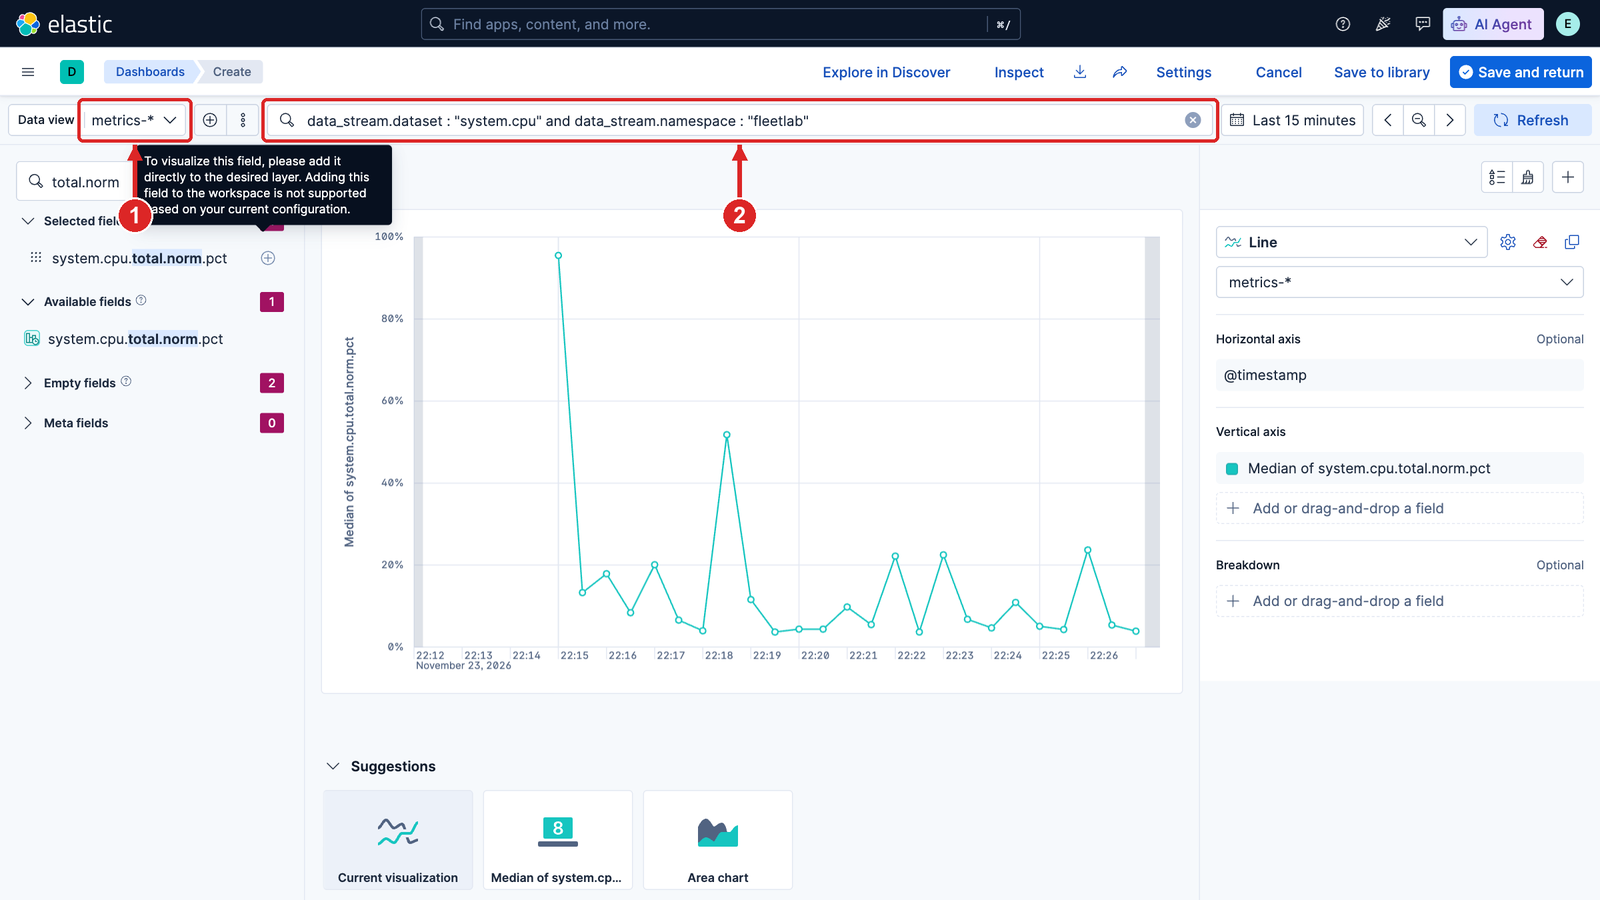
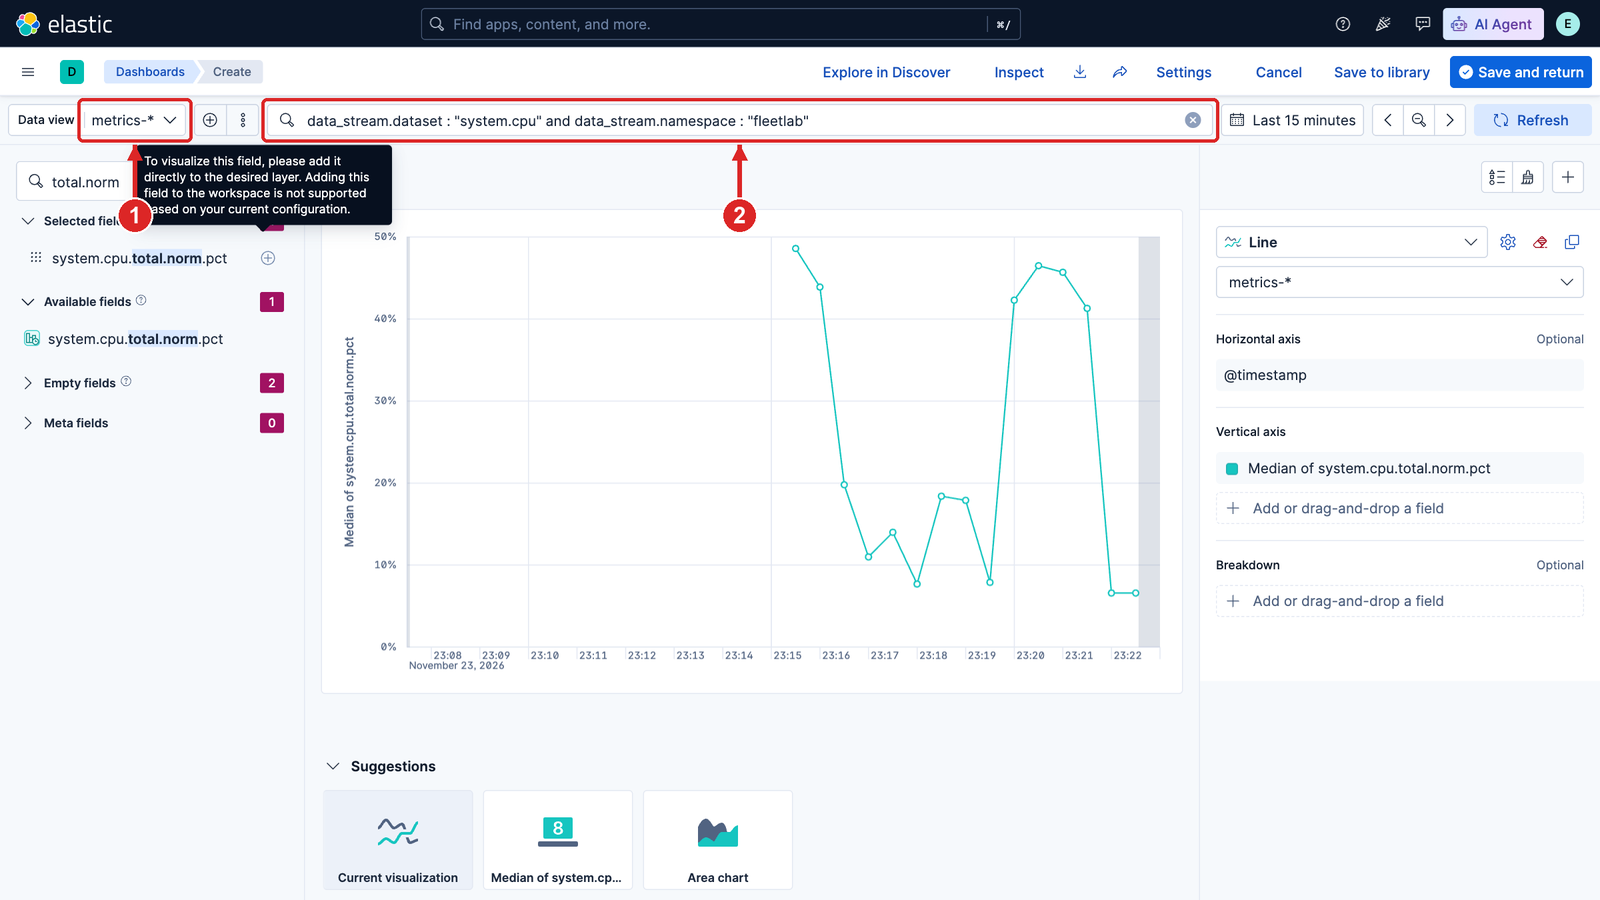
docs+test(LAB-11): question-led steps, short concept bullets
- "Bu lab ne öğretiyor?" as a short problem line plus four bold bullets; Kavramlar table -> bullets
  (Elastic Agent, agent policy/revision, integration, Fleet, Fleet Server, namespace)
- Ön Koşullar: "önce kurulu olmalı" / "önceki labı atladıysanız"
- Each of the 7 steps opens with "Soru: ...?"; before/after labels on steps 5 and 6; explanations as bold bullets
- Commands unchanged (komut denetimi AYNI, 19 blocks)

Test (34.141.96.128, 9.5.5, base c67976b), README order, runner and UI interleaved:
teardown -> runner 1-17 PASS=9 -> UI step 2 + step 5 (5 shots) -> runner 18-19 PASS=1 (revision 2 -> 3)
-> UI step 6 Nginx (3 shots) -> runner 20-27 PASS=4 (revision 4, nginx-lab namespace from policy)
-> UI prebuilt dashboard box ([Logs Nginx] Overview: 8 panels, 0 errors) -> runner 28-31 PASS=2 (stress-ng)
-> UI step 7 Lens dashboard (4 shots, load window visible). Total PASS=16 FAIL=0; link_kontrol 0.
Lab left running on the server.

diff --git a/labs/LAB-11-fleet-elastic-agent/README.md b/labs/LAB-11-fleet-elastic-agent/README.md
@@ -8,14 +8,13 @@
 
 ## Bu lab ne öğretiyor?
 
-Bir sunucuyu Beats ile izlemek her Beat için ayrı bir YAML dosyası ve servis demektir; ayarı değiştirmek
-için sunucuya girip dosyayı düzenlemek gerekir. 50 sunucuda hangi sunucuda hangi ayarın çalıştığını kimse
-bilemez. Fleet ayarı sunucudan alıp Kibana'ya taşır: sunucuda tek bir program (**Elastic Agent**) çalışır,
-ne toplayacağını Kibana'daki **agent policy** söyler.
+Beats ile her Beat ayrı YAML ve servis demektir; 50 sunucuda hangi ayarın çalıştığını kimse bilemez. Fleet ayarı
+Kibana'ya taşır: sunucuda tek program (**Elastic Agent**) çalışır, ne toplayacağını Kibana'daki **agent policy** söyler.
 
-Bu labda Fleet Server ve bir ajanı container olarak kuracak, ajanın sunucuyu izlediğini gösterecek, politikayı
-Kibana'dan değiştirecek, **Add integrations** ile Nginx loglarını ekleyecek ve CPU'ya kısa bir yük verip bir
-Lens panosunda göreceğiz.
+- **Fleet Server ve ajan:** container olarak kurmak, ajanın sunucuyu izlediğini görmek
+- **Politikayı Kibana'dan değiştirmek:** sunucuya girmeden ayarın ajana gitmesi (revision)
+- **Add integrations:** Nginx loglarını eklemek, integration'ın hazır panosu
+- **CPU yükü:** kısa bir yükü Lens panosunda görmek
 
 ![Fleet Server, Elastic Agent ve politika akışı](../../assets/infographics/15-fleet-agent-policy-akisi.png)
 
@@ -23,9 +22,9 @@ Lens panosunda göreceğiz.
 
 ## Ön Koşullar
 
-- LAB-01 ana cluster'ı çalışıyor. LAB-01'i atladıysanız onun Adım 1-2'sini çalıştırın.
-- `127.0.0.1:8220` portu boş olmalı. İki ajan container'ı birlikte yaklaşık 1 GB RAM kullanır. Adım 7 `stress-ng`
-  paketini `sudo apt-get` ile kurar.
+- Önce kurulu olmalı: LAB-01 ana cluster'ı. `127.0.0.1:8220` portu boş olmalı; iki ajan container'ı birlikte
+  yaklaşık 1 GB RAM kullanır. Adım 7 `stress-ng` paketini `sudo apt-get` ile kurar.
+- Önceki labı atladıysanız: sorun değil; LAB-10'a bağlı değildir, veriyi ajan sunucudan toplar.
 
 ```bash
 cd ~/elastic/labs/LAB-11-fleet-elastic-agent
@@ -46,18 +45,14 @@ Kibana: http://<IP>:5601   https://<host>-kibana.devopsatolyesi.com
 
 ---
 
-## Kavramlar: Fleet'te kim ne yapar?
+## Kavramlar
 
-| Parça | Ne yapar | Bu labda |
-|---|---|---|
-| Kibana Fleet | Politikaları ve integration'ları tutar; her değişiklikte politikanın **revision**'ı artar | `fleet-linux-policy` |
-| Fleet Server | Ajanların düzenli sorduğu (check-in) sunucu; yeni politikayı ajana verir | `fleet-server-lab`, port 8220 |
-| Elastic Agent | Politikayı uygular, veriyi **doğrudan Elasticsearch'e** yazar | `agent-fleet-lab` (`linux-agent-01`) |
-| Integration | Bir kaynağın hazır toplama ayarı (System, Nginx…) | `system-lab` |
-| Namespace | Data stream adının son parçası; ortamı ya da ekibi ayırır | `fleetlab` |
-
-Fleet Server veri taşımaz: ayar Fleet Server'dan gelir, veri ajandan Elasticsearch'e gider. Data stream adları
-`<tür>-<veri seti>-<namespace>` biçimindedir: `logs-system.auth-fleetlab`.
+- **Elastic Agent:** her sunucuda çalışan tek program; politikayı uygular, veriyi **doğrudan Elasticsearch'e** yazar
+- **Agent policy:** ajanın ne toplayacağının listesi; her değişiklikte **revision**'ı bir artar
+- **Integration:** bir kaynağın hazır toplama ayarı (System, Nginx…); panolarını ve ingest pipeline'larını da getirir
+- **Fleet (Kibana):** politikaları ve integration'ları yönetilen arayüz
+- **Fleet Server:** ajanların düzenli sorduğu (check-in) sunucu; yeni politikayı ajana verir, veri taşımaz
+- **Namespace:** data stream adının son parçası, ortamı ya da ekibi ayırır: `<tür>-<veri seti>-<namespace>` → `logs-system.auth-fleetlab`
 
 ---
 
@@ -93,8 +88,9 @@ toplayıcılar `/proc` yerine sunucunun bağlanan `/hostfs/proc`'unu okur.
 
 ### 1. Fleet'i hazırlayın
 
-Betik Fleet Server için bir service token üretir, Fleet'in output'unu ana cluster'a yönlendirir, iki politika
-açar ve ajanın kayıt token'ını alır. Token'lar `.env.fleet` dosyasına yazılır, ekrana basılmaz:
+**Soru: Ajan çalışmadan önce Fleet'te ne hazır olmalı?** Betik Fleet Server için bir service token üretir,
+Fleet'in output'unu ana cluster'a yönlendirir, iki politika açar ve ajanın kayıt token'ını alır. Token'lar
+`.env.fleet` dosyasına yazılır, ekrana basılmaz:
 
 ```bash
 python3 scripts/setup_fleet.py
@@ -115,16 +111,18 @@ enrollment token       : alindi
 
 </details>
 
-İlk çalıştırma paketleri indirdiği için yaklaşık 40 saniye sürer.
+- **Yaklaşık 40 saniye:** ilk çalıştırma paketleri indirir.
 
 ### 2. Fleet Server ve ajanı başlatın
+
+**Soru: Ajan Fleet'e nasıl kaydolur?** İki container'ı başlatın; ajan token'la Fleet Server'a kaydolur:
 
 ```bash
 docker compose --env-file .env.fleet up -d
 ```
 
-Fleet Server açılır, ajan ona kaydolur ve ilk politikayı uygular; ikisinin de `online` olması yaklaşık 1
-dakika sürer:
+**Bekleyin:** Fleet Server açılır, ajan ona kaydolur ve ilk politikayı uygular; ikisinin de `online` olması
+yaklaşık 1 dakika sürer:
 
 ```bash
 timeout 300 bash -c 'until [ "$(curl -s -u elastic:"DevOps2026!" "http://127.0.0.1:5601/api/fleet/agents?perPage=50" | jq "[.items[] | select((.policy_id | test(\"^fleet-\")) and .status == \"online\")] | length")" -ge 2 ]; do printf .; sleep 5; done'; echo
@@ -142,14 +140,14 @@ linux-agent-01  fleet-linux-policy  online
 
 Satırların sırası sizde farklı olabilir.
 
-Aynı listeyi **Management › Fleet › Agents**'ta görün: `linux-agent-01` satırında (1) durum `Healthy`,
-politika `Lab Linux sunucu`. **Last activity** birkaç saniye öncesini gösterir: ajan düzenli check-in yapıyor.
+**Arayüzde:** **Management › Fleet › Agents**: `linux-agent-01` satırında (1) durum `Healthy`, politika
+`Lab Linux sunucu`. **Last activity** birkaç saniye öncesini gösterir: ajan düzenli check-in yapıyor.
 
 ![Fleet › Agents: 1 linux-agent-01 Healthy](../../assets/screenshots/LAB-11/01-fleet-agents.png)
 
 ### 3. Politikada ne var?
 
-Ajanın ne topladığını politikadaki integration'lar belirler:
+**Soru: Ajan ne topluyor?** Politikadaki integration'lar belirler:
 
 ```bash
 curl -s -u elastic:'DevOps2026!' 'http://127.0.0.1:5601/api/fleet/package_policies?perPage=50' \
@@ -168,13 +166,13 @@ fleet_server-lab  fleet-server-policy  hostfs=-
    └─ status: (HEALTHY) Running
 ```
 
-`system-lab` sunucunun loglarını ve metriklerini toplar; `hostfs=/hostfs` metriklerin sunucudan okunmasını
-sağlar. `elastic-agent status` ajanın Fleet'e bağlı ve sağlıklı olduğunu kendisi söyler.
+- **`system-lab`:** sunucunun loglarını ve metriklerini toplar; `hostfs=/hostfs` metriklerin sunucudan okunmasını sağlar.
+- **`elastic-agent status`:** ajan Fleet'e bağlı ve sağlıklı olduğunu kendisi söyler.
 
 ### 4. Önce ve sonra: ajan sunucuyu mu görüyor, container'ı mı?
 
-Bağlama olmasa container'ın `/var/log`'unda yalnız image'ın kendi birkaç dosyası olurdu. Bağlamayla aynı dizin
-sunucunun dizinidir:
+**Soru: Container'daki ajan sunucuyu nasıl görür?** Bağlama (volume) olmasa container'ın `/var/log`'unda yalnız
+image'ın kendi birkaç dosyası olurdu. Bağlamayla aynı dizin sunucunun dizinidir:
 
 ```bash
 docker exec agent-fleet-lab ls /var/log | grep -E '^(syslog|auth\.log)$'
@@ -187,8 +185,8 @@ auth.log
 syslog
 ```
 
-Süreç metriklerinin gelmesini bekleyip iki log veri setinin document sayısına ve son 5 dakikada en çok görülen
-süreçlere bakın:
+**Veri geliyor mu?** Süreç metriklerinin gelmesini bekleyip iki log veri setinin document sayısına ve son 5
+dakikada en çok görülen süreçlere bakın:
 
 ```bash
 timeout 180 bash -c 'until [ "$(curl -s -u elastic:"DevOps2026!" http://127.0.0.1:9200/metrics-system.process-fleetlab/_count | jq .count 2>/dev/null)" -gt 0 ] 2>/dev/null; do printf .; sleep 5; done'; echo
@@ -212,13 +210,14 @@ system.auth    3521
 | `logs-system.auth-fleetlab` | 0 document | sunucunun SSH ve `sudo` kayıtları |
 | `metrics-system.process-*` | yalnız `elastic-agent` ve alt bileşenleri | sunucudaki bütün süreçler: `dockerd`, ana cluster'ın `java`'sı… |
 
-Ajan dosyaları baştan okur; sayılar ve süreç listesi sunucunun yaşına ve o anki yüküne göre sizde farklıdır. İnternete açık sunucularda `auth`
-kayıtlarının çoğu başarısız SSH denemeleridir. Süreç adları çekirdekte 15 karakterde kesilir.
+- **Sayılar sizde farklıdır:** ajan dosyaları baştan okur; sayılar ve süreç listesi sunucunun yaşına ve yüküne bağlıdır.
+- **`auth` kayıtları:** internete açık sunucularda çoğu başarısız SSH denemeleridir.
+- **Kısa süreç adları:** çekirdek süreç adlarını 15 karakterde keser.
 
 ### 5. Politikayı Kibana'dan canlı değiştirin
 
-Her politika değişikliği politikanın revision'ını bir artırır; ajan yeni revision'ı bir sonraki check-in'de
-alır. Önce iki değer:
+**Soru: Ayar sunucuya girmeden nasıl değişir?** Her politika değişikliği revision'ı bir artırır; ajan yeni
+revision'ı bir sonraki check-in'de alır. **Önce:** politikanın ve ajanın revision'ı:
 
 ```bash
 curl -s -u elastic:'DevOps2026!' 'http://127.0.0.1:5601/api/fleet/agent_policies/fleet-linux-policy' | jq '.item.revision'
@@ -232,7 +231,7 @@ Beklenen çıktı:
 2
 ```
 
-Şimdi Kibana'da süreç metriklerinin toplanma aralığını değiştirin:
+**Kibana'da** süreç metriklerinin toplanma aralığını değiştirin:
 
 1. **Management › Fleet › Agent policies**'te **Lab Linux sunucu** politikasını açın ve `system-lab`
    integration'ına (1) tıklayın.
@@ -253,7 +252,7 @@ Beklenen çıktı:
 
    ![Save and deploy changes onayı](../../assets/screenshots/LAB-11/05-save-and-deploy.png)
 
-Ajanın yeni revision'a geçmesini bekleyin:
+**Sonra:** ajanın yeni revision'a geçmesini bekleyin:
 
 ```bash
 curl -s -u elastic:'DevOps2026!' 'http://127.0.0.1:5601/api/fleet/agent_policies/fleet-linux-policy' | jq '.item.revision'
@@ -269,13 +268,13 @@ Beklenen çıktı:
 3
 ```
 
-Politika 2'den 3'e çıktı, ajan birkaç saniye içinde yetişti. Sunucuya girilmedi, container yeniden başlatılmadı.
+- **2 → 3:** ajan birkaç saniye içinde yetişti; sunucuya girilmedi, container yeniden başlatılmadı.
 
 ### 6. Kibana'dan integration ekleyin: Nginx
 
-System integration'ı betik ekledi. Şimdi aynı politikaya Kibana'nın **Add integrations** akışıyla bir tane daha
-ekleyeceğiz. Sunucudaki Nginx (80/443) her isteği `/var/log/nginx/access.log`'a yazar; ajan `/var/log`'u zaten
-okuyor, yeni bir bağlama gerekmez.
+**Soru: Yeni bir kaynağı toplamaya nasıl başlarız?** System integration'ını betik ekledi; aynı politikaya
+Kibana'nın **Add integrations** akışıyla Nginx'i ekliyoruz. Sunucudaki Nginx (80/443) her isteği
+`/var/log/nginx/access.log`'a yazar; ajan `/var/log`'u zaten okuyor, yeni bir bağlama gerekmez.
 
 1. Kibana ana sayfasında **Add integrations**'a basın, arama kutusuna `nginx` yazın (1) ve **Nginx (ECS)**
    kartını (2) açın; sonra **Add Nginx (ECS)** (3).
@@ -292,7 +291,7 @@ okuyor, yeni bir bağlama gerekmez.
 
    ![Existing hosts: 6 sekme, 7 Lab Linux sunucu, 8 Save and continue](../../assets/screenshots/LAB-11/08-nginx-politika.png)
 
-Politika revision'ı yine artar; ajan yetişince Nginx logları gelir:
+**Nginx logları geliyor mu?** Politika revision'ı yine artar; ajan yetişince loglar gelir:
 
 ```bash
 timeout 180 bash -c 'until [ "$(curl -s -u elastic:"DevOps2026!" http://127.0.0.1:9200/logs-nginx.access-fleetlab/_count | jq .count 2>/dev/null)" -gt 0 ] 2>/dev/null; do printf .; sleep 5; done'; echo
@@ -309,8 +308,10 @@ system-lab  system  namespace=fleetlab
 4
 ```
 
-Önce ve sonra: sunucunun ham satırı ve aynı türden bir isteğin ajanın yazdığı hâli. Integration'ın ingest
-pipeline'ı satırı ECS field'larına ayırır. `nginx-lab` namespace'i kendisi vermez, politikanınkini (`fleetlab`) alır:
+- **`namespace=politikadan`:** `nginx-lab` namespace'i kendisi vermez, politikanınkini (`fleetlab`) alır.
+
+**Önce ve sonra:** sunucunun ham satırı ve aynı türden bir isteğin ajanın yazdığı hâli. Integration'ın ingest
+pipeline'ı satırı ECS field'larına ayırır:
 
 ```bash
 sudo tail -1 /var/log/nginx/access.log | cut -c1-120
@@ -325,7 +326,7 @@ Beklenen çıktı:
 {"ip":"188.114.102.252","method":"GET","kod":200,"url":"/api/console/autocomplete_entities?field","tarayici":"Chrome"}
 ```
 
-İstekler, IP'ler ve URL sizde farklıdır. Ajan dosyayı baştan okur; sayı sunucunun Nginx trafiğine bağlıdır.
+- **Sizde farklıdır:** istekler, IP'ler ve URL sunucunun Nginx trafiğine bağlıdır.
 
 <details>
 <summary><strong>Tek node'da yellow kalmasın: replica 0</strong></summary>
@@ -399,9 +400,9 @@ galerisinin Kibana'daki karşılığı).
 
 ### 7. CPU yükü ve Lens panosu
 
-System integration'ı CPU'yu 10 saniyede bir `metrics-system.cpu-fleetlab`'e yazar. `stress-ng` ile kısa ve
-sınırlı bir yük verip panoda görelim: 4 çekirdekten 2'si, %80 yük, 90 saniye; süre dolunca kendiliğinden
-biter ve bellek kullanmaz.
+**Soru: Bir yük metriklere ve panoya nasıl yansır?** System integration'ı CPU'yu 10 saniyede bir
+`metrics-system.cpu-fleetlab`'e yazar. `stress-ng` ile kısa ve sınırlı bir yük vereceğiz: 4 çekirdekten 2'si, %80 yük,
+90 saniye; süre dolunca kendiliğinden biter ve bellek kullanmaz.
 
 ```bash
 sudo DEBIAN_FRONTEND=noninteractive apt-get install -y -qq stress-ng >/dev/null 2>&1; stress-ng --version | cut -d' ' -f1-3
@@ -415,9 +416,8 @@ stress-ng, version 0.17.06
 4
 ```
 
-Yükten önceki 2 dakikanın ortalaması, 90 saniyelik yük, yük bitince son 80 saniyenin ortalaması
-(`system.cpu.total.norm.pct`: bütün çekirdeklerin ortalaması, yüzde). 80 saniyelik pencere yükün içinde kalır;
-veri 10 saniyede bir geldiği için son ölçüm birkaç saniye geride olabilir:
+**Önce, yük, sonra:** yükten önceki 2 dakikanın ortalaması, 90 saniyelik yük, yük bitince son 80 saniyenin
+ortalaması (`system.cpu.total.norm.pct`: bütün çekirdeklerin ortalaması). 80 saniyelik pencere yükün içinde kalır:
 
 ```bash
 curl -s -u elastic:'DevOps2026!' 'http://127.0.0.1:9200/metrics-system.cpu-fleetlab/_search?size=0' -H 'Content-Type: application/json' \
@@ -436,9 +436,10 @@ successful run completed in 1 min, 30.02 secs
 "yuk sirasinda: %46"
 ```
 
-Yüzdeler sunucunun o anki yüküne göre sizde farklıdır (burada 2 çekirdek %80'de, 4 çekirdeğin ortalaması yaklaşık +%40 artar); önemli olan yükün farkıdır.
+- **Fark önemli:** yüzdeler sunucunun o anki yüküne göre sizde farklıdır; 4 çekirdeğin 2'si %80'de olunca ortalama
+  yaklaşık 40 puan artar.
 
-Şimdi aynı veriyi panoya koyun:
+**Panoya koyun:** aynı veriyi Lens ile çizin:
 
 1. **Dashboards › Create dashboard › Create visualization**. Data view **metrics-\*** (1), sorgu kutusuna
    `data_stream.dataset : "system.cpu" and data_stream.namespace : "fleetlab"` (2). Soldaki listeden
@@ -458,8 +459,7 @@ Yüzdeler sunucunun o anki yüküne göre sizde farklıdır (burada 2 çekirdek 
 
    ![Pano: CPU çizgisinde yük penceresi](../../assets/screenshots/LAB-11/12-pano-cpu.png)
 
-Çizgide yükün başladığı ve bittiği an görünür. Bu sunucuda yükten önce %44, yük sırasında %75 ölçüldü: 4 çekirdeğin
-2'si %80 yüklenince ortalama yaklaşık 30-40 puan artar. Sunucunun o anki işine göre sayılar sizde farklıdır.
+- **Yük penceresi:** çizgide yükün başladığı ve bittiği an görünür; sayılar sunucunun o anki işine göre sizde farklıdır.
 
 ---
 
